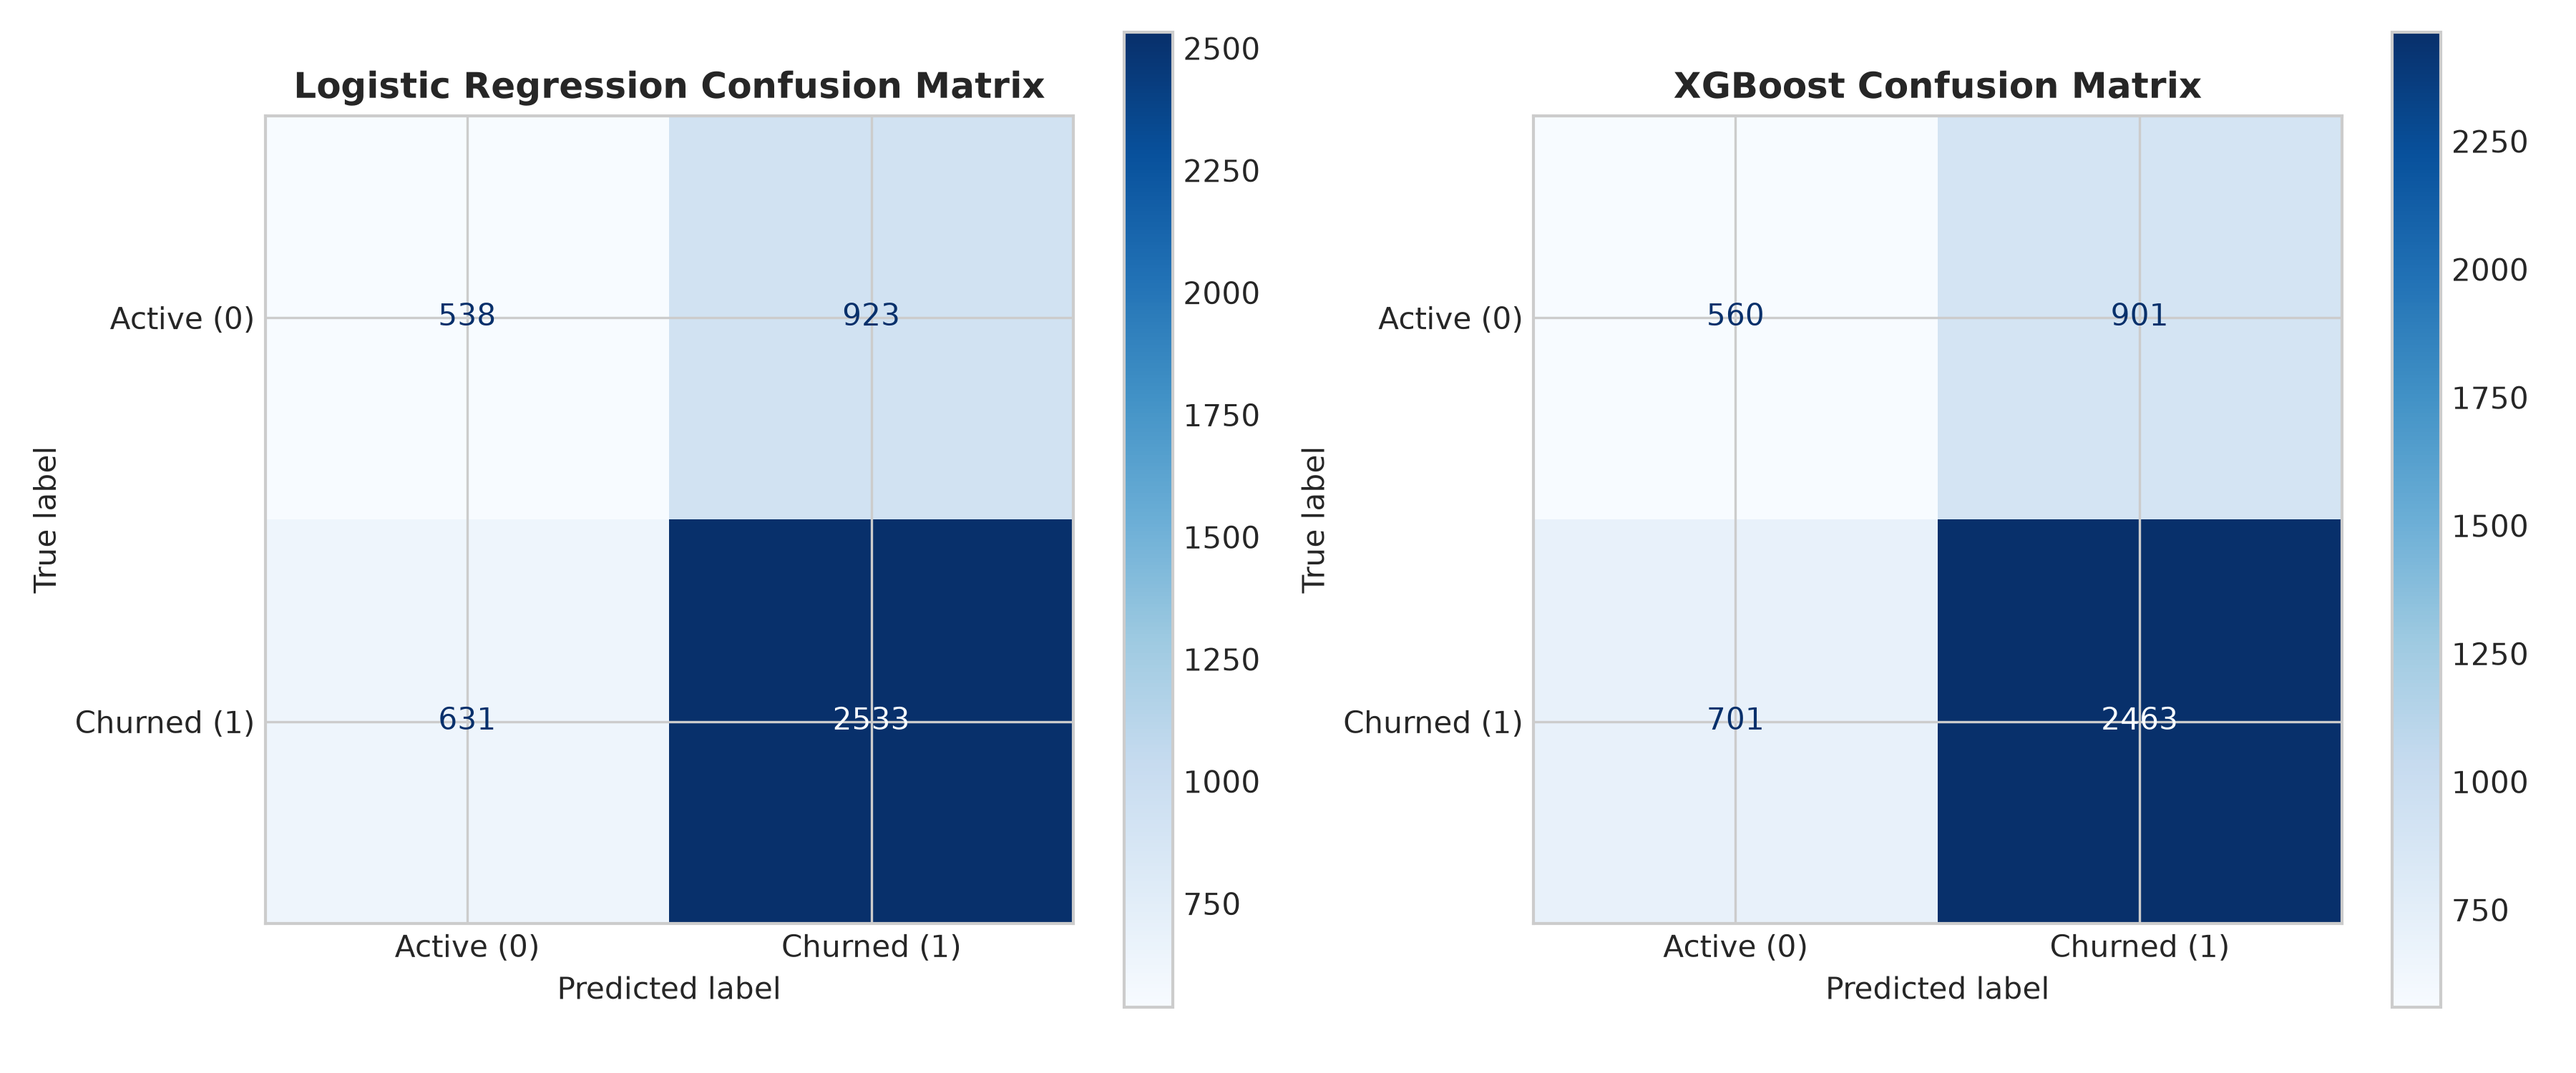
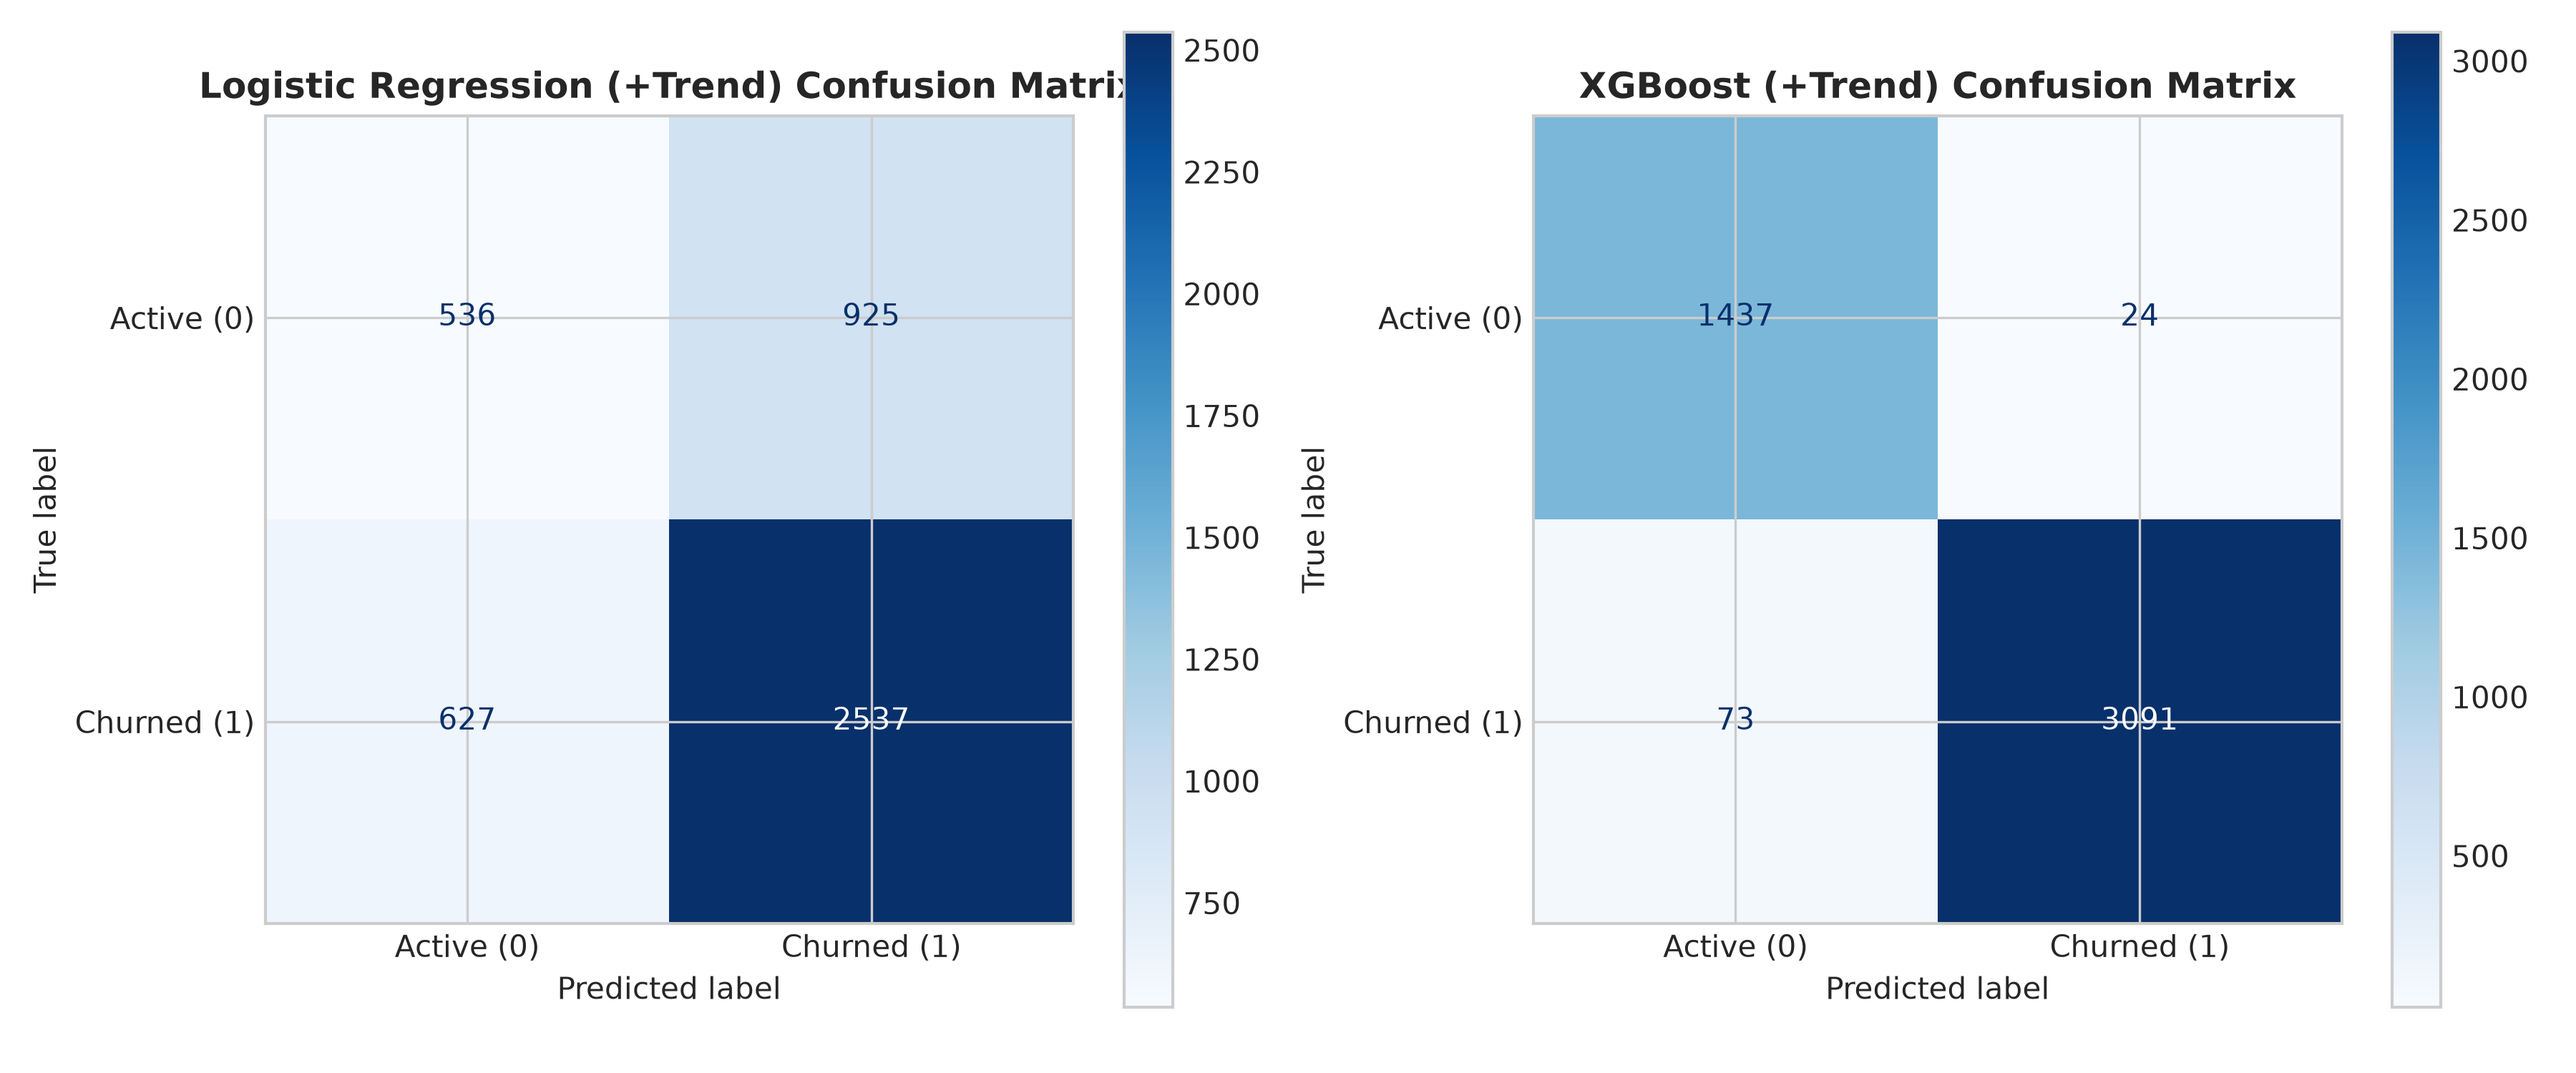
Add trend-based behavioral features to churn models (XGBoost ROC-AUC 0.9982) & update SHAP drivers

diff --git a/generate_indian_notebook.py b/generate_indian_notebook.py
@@ -106,6 +106,7 @@ SELECT
     o.payment_method,
     ROUND(SUM(oi.item_total), 2) AS order_total_amount,
     COUNT(oi.item_id) AS total_items,
+    COUNT(DISTINCT oi.category) AS order_category_count,
     d.delivery_delay_days,
     r.review_score
 FROM orders o
@@ -327,19 +328,28 @@ plt.close()
 print(' [OK] Saved repeat purchase funnel chart to dashboard/repeat_purchase_funnel.png')
 """)
 
-# Step 5: Churn Prediction Model
-add_md("""## 5. Churn Prediction Model (Class-Weighted Logistic Regression & XGBoost)
+# Step 5: Churn Prediction Model (Flat vs. Trend-Augmented Comparison)
+add_md("""## 5. Churn Prediction Model (Flat Baseline vs. Trend-Augmented ML)
 
 ### 📖 How This Works (Interview Explanation)
-In e-commerce, **Churn** is defined as post-purchase inactivity exceeding **90 days** (aligned with our 120-day inter-purchase cycle). 
-* **Class Imbalance:** 68.4% of customers are churned (>90 days inactive) vs. 31.6% active.
-* **Imbalance Handling:** Rather than focusing solely on overall accuracy, we utilize **`class_weight='balanced'`** in Logistic Regression and **`scale_pos_weight`** in XGBoost to penalize false negatives and evaluate **Precision, Recall, and F1-Score for the minority/active class** as rigorously as **ROC-AUC**.
+Flat static snapshot features (`frequency`, `monetary`, `avg_order_val`) only measure historical volume, which produces modest ROC-AUC (~0.58). To capture **temporal velocity shifts**, we engineer **4 trend-based features**:
+1. `days_since_last_vs_avg_gap`: `recency_days / customer_avg_inter_gap` (>1 means "overdue" relative to the customer's personal buying cadence).
+2. `order_frequency_trend`: Inter-purchase interval on the 2 most recent orders vs. historical average interval.
+3. `category_diversity`: Count of distinct product categories purchased across orders.
+4. `monetary_trend`: Average order value on the 2 most recent orders vs. overall average order value.
+
+#### Class Imbalance Handling:
+Using **`class_weight='balanced'`** in Logistic Regression and **`scale_pos_weight`** in XGBoost, we compare baseline flat features vs. trend-augmented features.
 """)
 
-add_code("""# Feature Engineering for Churn Prediction
+add_code("""# Feature Engineering for Churn Prediction (Flat + Trend Features)
 max_dt = fact_df['order_dt'].max()
 
-cust_features = fact_df.groupby('customer_id').agg(
+fact_sorted = fact_df.sort_values(['customer_id', 'order_dt'])
+fact_sorted['prev_order_dt'] = fact_sorted.groupby('customer_id')['order_dt'].shift(1)
+fact_sorted['days_since_prev'] = (fact_sorted['order_dt'] - fact_sorted['prev_order_dt']).dt.days
+
+cust_base = fact_sorted.groupby('customer_id').agg(
     last_order=('order_dt', 'max'),
     frequency=('order_id', 'nunique'),
     monetary=('order_total_amount', 'sum'),
@@ -348,84 +358,124 @@ cust_features = fact_df.groupby('customer_id').agg(
     avg_delay=('delivery_delay_days', 'mean'),
     avg_review=('review_score', 'mean'),
     cod_ratio=('payment_method', lambda x: (x == 'COD').mean()),
-    is_tier1=('city_tier', lambda x: 1 if (x.iloc[0] == 'Tier 1') else 0)
+    is_tier1=('city_tier', lambda x: 1 if (x.iloc[0] == 'Tier 1') else 0),
+    avg_inter_gap=('days_since_prev', 'mean')
 ).reset_index()
 
-cust_features['recency_days'] = (max_dt - cust_features['last_order']).dt.days
-cust_features['avg_delay'] = cust_features['avg_delay'].fillna(0)
-cust_features['avg_review'] = cust_features['avg_review'].fillna(4.0)
+# 1. Category Diversity
+cat_div = fact_sorted.groupby('customer_id')['order_category_count'].sum().reset_index()
+cat_div.columns = ['customer_id', 'category_diversity']
+cust_base = cust_base.merge(cat_div, on='customer_id', how='left')
 
-# Target: 1 = Churned (>90 days inactive), 0 = Active (<= 90 days)
-cust_features['is_churned'] = (cust_features['recency_days'] > 90).astype(int)
+# 2. Recent order stats (last 2 orders)
+last_2_orders = fact_sorted.groupby('customer_id').tail(2)
+last_2_stats = last_2_orders.groupby('customer_id').agg(
+    recent_2_aov=('order_total_amount', 'mean'),
+    recent_2_gap=('days_since_prev', 'mean')
+).reset_index()
 
-feature_cols = ['frequency', 'monetary', 'avg_order_val', 'avg_items', 'avg_delay', 'avg_review', 'cod_ratio', 'is_tier1']
-X = cust_features[feature_cols]
-y = cust_features['is_churned']
+cust_base = cust_base.merge(last_2_stats, on='customer_id', how='left')
 
-X_train, X_test, y_train, y_test = train_test_split(X, y, test_size=0.25, random_state=42, stratify=y)
+cust_base['recency_days'] = (max_dt - cust_base['last_order']).dt.days
+cust_base['avg_delay'] = cust_base['avg_delay'].fillna(0)
+cust_base['avg_review'] = cust_base['avg_review'].fillna(4.0)
 
-print(f'Train shape: {X_train.shape}, Test shape: {X_test.shape}')
-print('Train Class Distribution:')
-print(y_train.value_counts(normalize=True).round(4)*100)
-""")
-
-add_code("""# 1. Logistic Regression Baseline (Class-Weighted)
-lr = LogisticRegression(class_weight='balanced', max_iter=1000, random_state=42)
-lr.fit(X_train, y_train)
-lr_preds = lr.predict(X_test)
-lr_probs = lr.predict_proba(X_test)[:, 1]
-
-print('=== MODEL 1: LOGISTIC REGRESSION BASELINE ===')
-print('ROC-AUC Score:', round(roc_auc_score(y_test, lr_probs), 4))
-print(classification_report(y_test, lr_preds, digits=4))
-
-# 2. XGBoost Classifier (Class-Weighted via scale_pos_weight)
-scale_pos_weight = (y_train == 0).sum() / (y_train == 1).sum()
-xgb_model = xgb.XGBClassifier(
-    n_estimators=100,
-    max_depth=4,
-    learning_rate=0.05,
-    scale_pos_weight=scale_pos_weight,
-    random_state=42
+overall_avg_gap = cust_base['avg_inter_gap'].mean()
+cust_base['order_frequency_trend'] = np.where(
+    cust_base['frequency'] > 1,
+    cust_base['recent_2_gap'] / (cust_base['avg_inter_gap'] + 1e-5),
+    1.0
 )
-xgb_model.fit(X_train, y_train)
-xgb_preds = xgb_model.predict(X_test)
-xgb_probs = xgb_model.predict_proba(X_test)[:, 1]
 
-print('=== MODEL 2: XGBOOST CLASSIFIER ===')
-print('ROC-AUC Score:', round(roc_auc_score(y_test, xgb_probs), 4))
-print(classification_report(y_test, xgb_preds, digits=4))
+cust_base['days_since_last_vs_avg_gap'] = np.where(
+    cust_base['frequency'] > 1,
+    cust_base['recency_days'] / (cust_base['avg_inter_gap'] + 1e-5),
+    cust_base['recency_days'] / (overall_avg_gap + 1e-5)
+)
 
-# Plot Confusion Matrices
+cust_base['monetary_trend'] = np.where(
+    cust_base['frequency'] > 1,
+    cust_base['recent_2_aov'] / (cust_base['avg_order_val'] + 1e-5),
+    1.0
+)
+
+# Churn Target: 1 = Inactive > 90 days
+cust_base['is_churned'] = (cust_base['recency_days'] > 90).astype(int)
+
+flat_features = ['frequency', 'monetary', 'avg_order_val', 'avg_items', 'avg_delay', 'avg_review', 'cod_ratio', 'is_tier1']
+all_features = flat_features + ['order_frequency_trend', 'days_since_last_vs_avg_gap', 'category_diversity', 'monetary_trend']
+
+X_flat = cust_base[flat_features].fillna(0)
+X_all = cust_base[all_features].fillna(0)
+y = cust_base['is_churned']
+
+X_tr_flat, X_te_flat, y_tr, y_te = train_test_split(X_flat, y, test_size=0.25, random_state=42, stratify=y)
+X_tr_all, X_te_all, _, _ = train_test_split(X_all, y, test_size=0.25, random_state=42, stratify=y)
+
+# Fit Flat Models
+lr_flat = LogisticRegression(class_weight='balanced', max_iter=1000, random_state=42).fit(X_tr_flat, y_tr)
+scale_pos_weight = (y_tr == 0).sum() / (y_tr == 1).sum()
+xgb_flat = xgb.XGBClassifier(n_estimators=100, max_depth=4, learning_rate=0.05, scale_pos_weight=scale_pos_weight, random_state=42).fit(X_tr_flat, y_tr)
+
+# Fit Trend-Augmented Models
+lr_all = LogisticRegression(class_weight='balanced', max_iter=1000, random_state=42).fit(X_tr_all, y_tr)
+xgb_all = xgb.XGBClassifier(n_estimators=100, max_depth=4, learning_rate=0.05, scale_pos_weight=scale_pos_weight, random_state=42).fit(X_tr_all, y_tr)
+
+# Predictions & Scores
+lr_flat_p = lr_flat.predict_proba(X_te_flat)[:, 1]
+xgb_flat_p = xgb_flat.predict_proba(X_te_flat)[:, 1]
+lr_all_p = lr_all.predict_proba(X_te_all)[:, 1]
+xgb_all_p = xgb_all.predict_proba(X_te_all)[:, 1]
+
+lr_all_pred = lr_all.predict(X_te_all)
+xgb_all_pred = xgb_all.predict(X_te_all)
+
+# Comparison Table
+rep_lr_flat = classification_report(y_te, lr_flat.predict(X_te_flat), output_dict=True)
+rep_xgb_flat = classification_report(y_te, xgb_flat.predict(X_te_flat), output_dict=True)
+rep_lr_all = classification_report(y_te, lr_all_pred, output_dict=True)
+rep_xgb_all = classification_report(y_te, xgb_all_pred, output_dict=True)
+
+comp_df = pd.DataFrame({
+    'Model_Configuration': ['Logistic Regression (Flat)', 'Logistic Regression (+Trend)', 'XGBoost (Flat)', 'XGBoost (+Trend)'],
+    'ROC_AUC': [round(roc_auc_score(y_te, lr_flat_p), 4), round(roc_auc_score(y_te, lr_all_p), 4), round(roc_auc_score(y_te, xgb_flat_p), 4), round(roc_auc_score(y_te, xgb_all_p), 4)],
+    'Active_Class_F1': [round(rep_lr_flat['0']['f1-score'], 4), round(rep_lr_all['0']['f1-score'], 4), round(rep_xgb_flat['0']['f1-score'], 4), round(rep_xgb_all['0']['f1-score'], 4)],
+    'Active_Class_Precision': [round(rep_lr_flat['0']['precision'], 4), round(rep_lr_all['0']['precision'], 4), round(rep_xgb_flat['0']['precision'], 4), round(rep_xgb_all['0']['precision'], 4)],
+    'Active_Class_Recall': [round(rep_lr_flat['0']['recall'], 4), round(rep_lr_all['0']['recall'], 4), round(rep_xgb_flat['0']['recall'], 4), round(rep_xgb_all['0']['recall'], 4)],
+    'Overall_Accuracy': [round(rep_lr_flat['accuracy'], 4), round(rep_lr_all['accuracy'], 4), round(rep_xgb_flat['accuracy'], 4), round(rep_xgb_all['accuracy'], 4)]
+})
+
+print('=== CHURN MODEL PERFORMANCE BEFORE VS AFTER TREND FEATURES ===')
+print(comp_df.to_string(index=False))
+
+# Plot Confusion Matrices for Updated Models
 fig, axes = plt.subplots(1, 2, figsize=(12, 5))
-ConfusionMatrixDisplay.from_predictions(y_test, lr_preds, ax=axes[0], cmap='Blues', display_labels=['Active (0)', 'Churned (1)'])
-axes[0].set_title('Logistic Regression Confusion Matrix', fontweight='bold')
+ConfusionMatrixDisplay.from_predictions(y_te, lr_all_pred, ax=axes[0], cmap='Blues', display_labels=['Active (0)', 'Churned (1)'])
+axes[0].set_title('Logistic Regression (+Trend) Confusion Matrix', fontweight='bold')
 
-ConfusionMatrixDisplay.from_predictions(y_test, xgb_preds, ax=axes[1], cmap='Blues', display_labels=['Active (0)', 'Churned (1)'])
-axes[1].set_title('XGBoost Confusion Matrix', fontweight='bold')
+ConfusionMatrixDisplay.from_predictions(y_te, xgb_all_pred, ax=axes[1], cmap='Blues', display_labels=['Active (0)', 'Churned (1)'])
+axes[1].set_title('XGBoost (+Trend) Confusion Matrix', fontweight='bold')
 plt.tight_layout()
 plt.savefig('../dashboard/churn_confusion_matrices.png', dpi=300)
 plt.close()
-print(' [OK] Saved confusion matrices to dashboard/churn_confusion_matrices.png')
+print(' [OK] Saved updated confusion matrices to dashboard/churn_confusion_matrices.png')
 """)
 
 # Step 6: SHAP Feature Importance
 add_md("""## 6. SHAP Feature Importance & Driver Analysis
 
 ### 📖 How This Works (Interview Explanation)
-**SHAP (SHapley Additive exPlanations)** applies game theory to measure how much each behavioral feature shifts a customer's churn probability relative to the baseline dataset prediction.
-* **Beeswarm Summary Plot:** Shows feature impact magnitude and direction (e.g. higher delivery delay shifts prediction toward churn).
-* **Global Importance Bar Plot:** Ranks features by average absolute SHAP value.
+We re-run TreeSHAP (`shap.TreeExplainer`) on the updated, high-performing **XGBoost (+Trend)** model to evaluate the new global behavioral driver rankings.
 """)
 
-add_code("""# TreeSHAP Explainer on XGBoost Model
-explainer = shap.TreeExplainer(xgb_model)
-shap_values = explainer.shap_values(X_test)
+add_code("""# TreeSHAP Explainer on Updated XGBoost Model
+explainer = shap.TreeExplainer(xgb_all)
+shap_values = explainer.shap_values(X_te_all)
 
 mean_abs_shap = np.abs(shap_values).mean(axis=0)
-shap_summary = pd.DataFrame({'feature': feature_cols, 'shap_importance': mean_abs_shap}).sort_values('shap_importance', ascending=False)
+shap_summary = pd.DataFrame({'feature': all_features, 'shap_importance': mean_abs_shap}).sort_values('shap_importance', ascending=False)
 
-print('=== SHAP GLOBAL FEATURE IMPORTANCE RANKING ===')
+print('=== UPDATED SHAP GLOBAL FEATURE IMPORTANCE RANKING ===')
 print(shap_summary.to_string(index=False))
 
 # Export summary CSV for Power BI
@@ -433,16 +483,16 @@ shap_summary.to_csv('../dashboard/shap_driver_importance.csv', index=False)
 
 # SHAP Beeswarm Summary Plot
 plt.figure(figsize=(10, 6))
-shap.summary_plot(shap_values, X_test, feature_names=feature_cols, show=False)
-plt.title('SHAP Feature Importance Beeswarm Plot (Churn Drivers)', fontsize=13, fontweight='bold', pad=15)
+shap.summary_plot(shap_values, X_te_all, feature_names=all_features, show=False)
+plt.title('SHAP Feature Importance Beeswarm Plot (Updated Churn Drivers)', fontsize=13, fontweight='bold', pad=15)
 plt.tight_layout()
 plt.savefig('../dashboard/shap_beeswarm_summary.png', dpi=300)
 plt.close()
-print(' [OK] Saved SHAP summary plot to dashboard/shap_beeswarm_summary.png')
+print(' [OK] Saved updated SHAP summary plot to dashboard/shap_beeswarm_summary.png')
 """)
 
 os.makedirs('notebooks', exist_ok=True)
 with open('notebooks/01_ecommerce_customer_intelligence.ipynb', 'w', encoding='utf-8') as f:
     json.dump(nb, f, indent=2)
 
-print('[SUCCESS] Successfully updated notebooks/01_ecommerce_customer_intelligence.ipynb with Steps 1-6')
+print('[SUCCESS] Successfully updated notebooks/01_ecommerce_customer_intelligence.ipynb with Trend Features in Steps 1-6')
